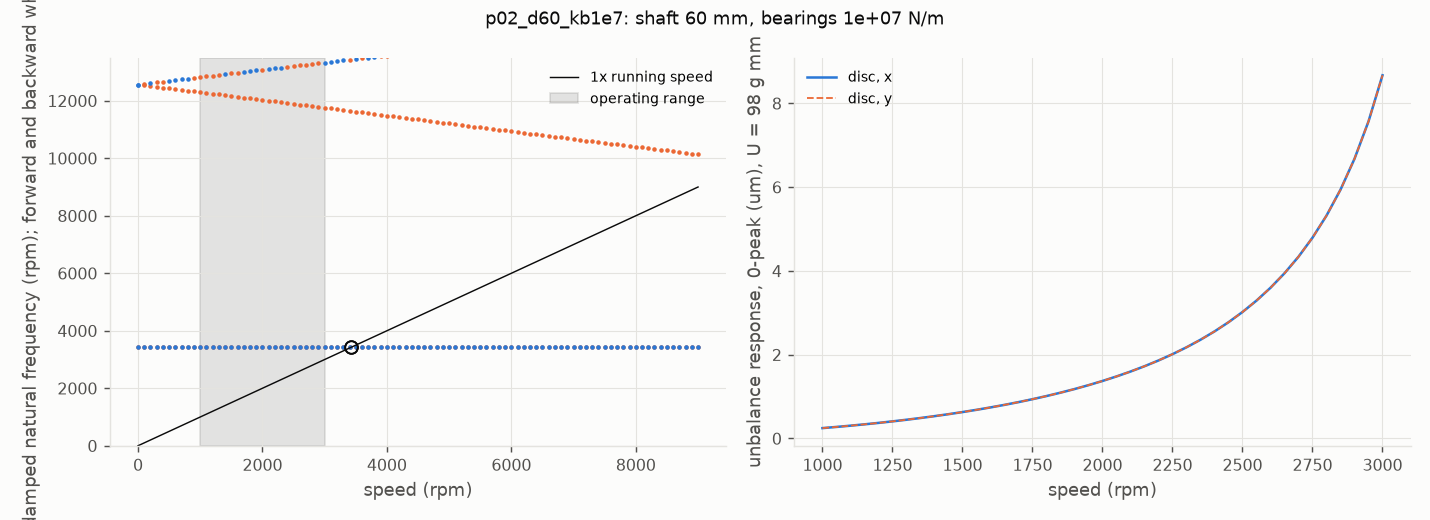
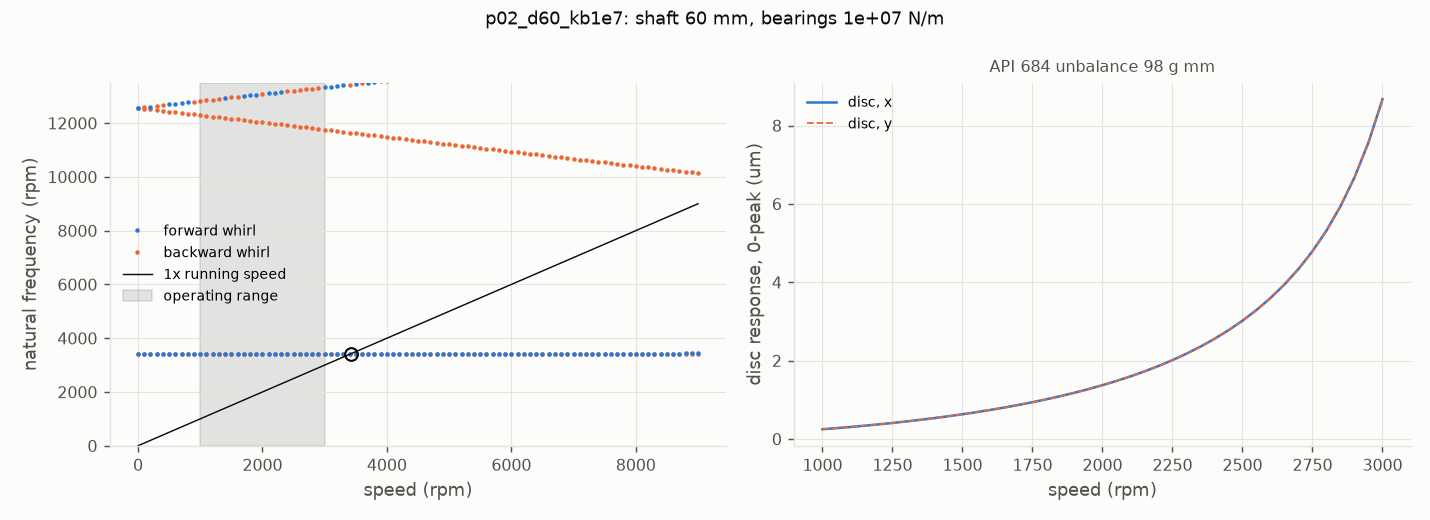
Portfolio pages 23 (fan rotor critical speeds) and 24 (cracked plate, crack growth), PORTFOLIO rows and capabilities, BACKLOG links; rotor figure labels (forward / backward whirl legend, y label no longer clipped), the design run re-verified to redraw them (same results)

diff --git a/studies/rotor_critical.py b/studies/rotor_critical.py
@@ -179,21 +179,22 @@ def rotor_figure(path, series, out, p, *, title):
     wh = np.asarray(out["campbell_whirl"])
     for j in range(wd.shape[1]):
         fwd = wh[:, j] < 0.5
-        a1.plot(sp[fwd], wd[fwd, j], ".", color=SERIES_1, ms=3)
-        a1.plot(sp[~fwd], wd[~fwd, j], ".", color=SERIES_2, ms=3)
+        a1.plot(sp[fwd], wd[fwd, j], ".", color=SERIES_1, ms=3, label="forward whirl" if j == 0 else None)
+        a1.plot(sp[~fwd], wd[~fwd, j], ".", color=SERIES_2, ms=3, label="backward whirl" if j == 0 else None)
     a1.plot(sp, sp, color=TEXT, lw=0.8, label="1x running speed")
     a1.axvspan(float(p["speed_min_rpm"]), float(p["speed_max_rpm"]), color=TEXT_2, alpha=0.15, label="operating range")
     for c in out["critical_speeds"]:
         a1.plot(c["rpm"], c["rpm"], "o", mfc="none", color=TEXT, ms=7)
     a1.set_ylim(0, sp.max() * 1.5)
     a1.set_xlabel("speed (rpm)")
-    a1.set_ylabel("damped natural frequency (rpm); forward and backward whirl")
+    a1.set_ylabel("natural frequency (rpm)")
     a1.legend(frameon=False, fontsize=8)
     s = np.asarray(series["speed_rpm"])
     a2.plot(s, np.asarray(series["disc_amp_x_m"]) * 1e6, color=SERIES_1, lw=1.4, label="disc, x")
     a2.plot(s, np.asarray(series["disc_amp_y_m"]) * 1e6, color=SERIES_2, lw=1.0, ls="--", label="disc, y")
     a2.set_xlabel("speed (rpm)")
-    a2.set_ylabel(f"unbalance response, 0-peak (um), U = {out['unbalance_g_mm']:.0f} g mm")
+    a2.set_ylabel("disc response, 0-peak (um)")
+    a2.set_title(f"API 684 unbalance {out['unbalance_g_mm']:.0f} g mm", fontsize=9, color=TEXT_2)
     a2.legend(frameon=False, fontsize=8)
     for ax in (a1, a2):
         _style(ax)

diff --git a/PORTFOLIO.md b/PORTFOLIO.md
@@ -16,8 +16,8 @@ All problems are synthetic, so no client data is involved. Every number comes fr
 | Contact: nonlinear surface-to-surface contact, contact pressure and subsurface stress, verified against Hertz; friction contact and bolted joints against VDI 2230 | Gmsh, CalculiX | [10](portfolio/10-roller-contact.md), [16](portfolio/16-bolted-joint-slip.md) |
 | Stability and nonlinear material: eigenvalue and imperfect-strut buckling, plasticity with residual stress | CalculiX | [13](portfolio/13-strut-buckling.md), [14](portfolio/14-strap-proof-plasticity.md) |
 | Pressure equipment, design by analysis: stress linearisation on classification lines, membrane and bending limits, design by analysis against a pressure-area rule | CadQuery, Gmsh, CalculiX | [18](portfolio/18-pressure-vessel-nozzle.md) |
-| Vibration: modal analysis, mode identification, frequency targets against engine orders; random vibration by modal superposition (3-sigma stress, hot-spot extrapolation) | CadQuery, Gmsh, CalculiX, Python | [4](portfolio/04-bracket-modal.md), [21](portfolio/21-bracket-random-vibration.md) |
-| Fatigue: notch factors, mean-stress correction, S-N curves from published test data, life ratings; spectral fatigue under random loading (Dirlik, Steinberg) | CalculiX, Python | [3](portfolio/03-strap-fatigue.md), [21](portfolio/21-bracket-random-vibration.md) |
+| Vibration: modal analysis, mode identification, frequency targets against engine orders; random vibration by modal superposition (3-sigma stress, hot-spot extrapolation); rotordynamics (Campbell diagram, critical speeds, API 684 unbalance response) | CadQuery, Gmsh, CalculiX, ROSS, Python | [4](portfolio/04-bracket-modal.md), [21](portfolio/21-bracket-random-vibration.md), [23](portfolio/23-fan-rotor-critical-speeds.md) |
+| Fatigue: notch factors, mean-stress correction, S-N curves from published test data, life ratings; spectral fatigue under random loading (Dirlik, Steinberg); fracture mechanics and crack growth (K by energy release and crack opening, BS 7910 growth law, critical crack, inspection interval) | Gmsh, CalculiX, Python | [3](portfolio/03-strap-fatigue.md), [21](portfolio/21-bracket-random-vibration.md), [24](portfolio/24-cracked-plate-growth.md) |
 | Scripted CAD-to-analysis pipelines: parametric geometry, STEP exchange, meshing, solving; an optimiser driving the pipeline | CadQuery, Gmsh, CalculiX, SciPy | [2](portfolio/02-strap-cable-hole.md), [4](portfolio/04-bracket-modal.md), [8](portfolio/08-mounting-plate.md), [12](portfolio/12-bracket-optimisation.md), [18](portfolio/18-pressure-vessel-nozzle.md) |
 | Computational fluid dynamics: internal laminar flow, pressure budgets, 2D and 3D; turbulent RANS (k-omega SST) validated against measured-data correlations, wall treatments compared | OpenFOAM | [5](portfolio/05-coolant-channel.md), [19](portfolio/19-turbulent-pipe-friction.md) |
 | Heat transfer: conduction with surface convection; conjugate heat transfer coupling CFD and solid conduction, then thermal stress | CalculiX, OpenFOAM | [6](portfolio/06-heat-sink-fin.md), [15](portfolio/15-cold-plate-thermal-chain.md) |
@@ -53,6 +53,8 @@ All problems are synthetic, so no client data is involved. Every number comes fr
 | [18. Pressure vessel nozzle, design by analysis](portfolio/18-pressure-vessel-nozzle.md) | Can a 200 mm nozzle with a 12 mm wall go into a 16 mm shell at 3.5 MPa without a reinforcing pad, and how thin can the head be? | It depends on the classification line: at the weld-fillet toes it passes by 0.9 % (205.1 MPa against 207; about 11.7 mm needed), through the crotch it fails by 24 % (256.7 MPa; about 20 mm needed); a simplified pressure-area rule asks for about 16. Recommended for review: judge the opening by the crotch line (about 21 mm, or a pad). The hemispherical head can be about 6.5 mm (its membrane governs, not the junction). |
 | [21. Bracket arm under random vibration](portfolio/21-bracket-random-vibration.md) | Does study 4's steel arm survive a random-vibration qualification, one hour per axis at 0.04 g²/Hz (20-2000 Hz)? | Yes, with wide margins: 3-sigma root stress 38.6 MPa against 236.7, fatigue damage 0.0024 against 0.5, tip 0.345 mm against a 1 mm clearance (the closest margin). |
 | [22. Bracket arm under random vibration: how robust is the PASS?](portfolio/22-bracket-random-uncertainty.md) | With damping, test level, fatigue strength and thickness uncertain, how likely is study 21's arm to fail, and what should be measured first? | Failure probability about 2e-6 against a 1e-3 limit; the tip clearance governs (reliability index 4.55); damping drives 71 % of the damage variance: measure it first. Synthetic distributions. |
+| [23. Fan rotor: critical speeds and unbalance response](portfolio/23-fan-rotor-critical-speeds.md) | Does a fan rotor running 1000-3000 rpm keep its critical speeds 15 % clear of the range for any bearing stiffness, and which shaft diameter does? | 50 mm fails (critical inside the range); 60 mm fails on soft bearings; 65 mm passes with at least 23.8 % margin and under 5 µm response. |
+| [24. Cracked steel plate: critical crack and fatigue crack growth](portfolio/24-cracked-plate-growth.md) | How long does a 2 mm edge crack in a 100 mm S355 plate take to grow to failure under 150 MPa cyclic tension, and how often must it be inspected? | Critical crack 37.0 mm; about 92,000 cycles from 2 mm, so inspect at least every 46,000 cycles. K within 0.66 % of the handbook. |
 
 ### Thermal and fluids
 

diff --git a/portfolio/24-cracked-plate-growth.md b/portfolio/24-cracked-plate-growth.md
@@ -1,0 +1,78 @@
+# Cracked steel plate: critical crack and fatigue crack growth
+
+[Portfolio index](../PORTFOLIO.md) · Structures and vibration
+
+| | |
+|---|---|
+| **Answer** | A 2 mm edge crack (the smallest magnetic-particle inspection reliably finds) in the 100 mm S355 plate grows to the critical size, **37.0 mm**, in about **92,000 cycles** at 150 MPa maximum stress (R = 0.1). Inspect at least every **46,000 cycles**; the planned 40,000 has margin. At the detectable crack, K is 13.4 MPa√m against the 50 allowed. Loads, toughness and the detectable size are synthetic; the crack growth law is the published BS 7910 / IIW one. |
+| **Discipline** | Fracture mechanics, damage tolerance |
+| **Tools** | Gmsh, CalculiX, Python (SciPy) |
+| **Methods** | Linear elastic fracture mechanics, stress intensity by energy release rate and by crack opening, Paris-law crack growth (BS 7910 simplified law for steels in air), handbook K (Tada), mesh noise measurement |
+
+![K against crack length, and the FE against Tada's handbook solution](../runs/20261123-164649_edge_crack_mesh_r2/points/p02_tip_element_size_mm-0.025/response.png)
+
+## The question
+
+A steel plate (S355, 100 mm wide, 10 mm thick) carries cyclic tension, 150 MPa at peak, 15 MPa at the bottom of each
+cycle. Inspections can find an edge crack once it is 2 mm deep. How long does such a crack take to grow to failure,
+and how often must the plate be inspected? Requirements: at the detectable crack, the stress intensity stays below
+half the fracture toughness (100 MPa√m, synthetic: a client would supply CTOD or Charpy data); and the growth life is
+at least twice the planned inspection interval of 40,000 cycles.
+
+## The answer
+
+- **Critical crack 37.0 mm**, set by the toughness; the ligament would yield only at 57.7 mm.
+- **Life from 2 mm to 37.0 mm: about 92,000 cycles**, so an inspection interval of at most 46,000 cycles. 81 % of
+  that life is spent growing from 2 to 10 mm: the early crack is slow, which is what gives inspection its chance.
+- **K at the 2 mm crack: 13.4 MPa√m**, a quarter of the toughness.
+
+## How it works
+
+CalculiX solves half the plate (the crack plane is a plane of symmetry) in plane strain, meshed by Gmsh with
+quadratic triangles that shrink towards the crack tip. At each of eleven crack lengths from 2 to 45 mm the stress
+intensity K comes two ways, neither needing special crack-tip elements:
+
+- **Energy release rate:** the strain energy at the crack length and 0.2 mm either side; G = dU/da, K = √(E′G).
+- **Crack opening:** near the tip the crack faces open as √r, in proportion to K; fitting the opening along the face
+  and extrapolating to the tip gives K.
+
+K(a) then gives the critical crack (where K reaches the toughness) and, integrated through the BS 7910 crack growth
+law (da/dN = 5.21×10⁻¹³ ΔK³), the life.
+
+## How I know it's right
+
+- **Tada's handbook solution** for an edge crack in a finite strip: the energy route agrees within 0.66 % at every
+  crack length, against Tada's own stated accuracy of 0.5 %. The wave in the difference against crack length (right
+  plot) is the same on every mesh, so it is the handbook's polynomial fit, not the model.
+- **Two routes to K** agree within 1.9-2.2 %; the crack-opening route is the weaker one (few points to fit at small
+  cracks) and converges towards the energy route as the tip mesh refines.
+- **Equilibrium** to 1e-16; the life integral by two quadratures to 3e-9.
+- **Tip mesh study** (0.1, 0.05, 0.025 mm): the critical crack converges (GCI 2e-4).
+- **Measured mesh noise:** five meshes at one tip size, perturbed in the far field, scatter the life by 0.11 %.
+
+## What the checks caught
+
+- **The life would not converge cleanly, and fixing it took three revisions.** The first energy step (2 % of the crack
+  length) was 0.04 mm at a 2 mm crack, about one tip element, so the energy difference picked up the mesh's own noise.
+  A 10 % step cured that but added 1.2 % of truncation error at long cracks, where K rises steeply. A fixed 0.2 mm
+  step, a few tip elements long and small against long cracks, satisfies both.
+- **I had declared a noise floor I had not measured.** The first case's floor (1e-4) was a guess written beside a
+  measured-sounding source. Measured afterwards, the life's scatter is 1.1e-3, and the finest tip still sits 0.05 %
+  below that band. So the life is known to about ±0.2 %, but the harness's mesh check stays formally unverified for it.
+  Against a 15 % margin to the requirement, no further revision can change the answer, so I stopped there.
+
+## Limits
+
+- Through-thickness straight crack; a real crack usually starts as a semi-ellipse at a surface (BS 7910 gives its K).
+- Constant-amplitude loading; no crack closure, sequence effects or environment.
+- Linear elastic: valid while the plastic zone (up to about 4 mm near the critical crack) is small against the
+  ligament.
+
+## Evidence
+
+- [tip mesh study, revision 2](../runs/20261123-164649_edge_crack_mesh_r2/report.md),
+  [noise measurement](../runs/20261123-165115_edge_crack_noise/report.md); revisions 0 and 1 in `runs/` with their
+  reasons in the case files
+- case files: `cases/edge_crack_mesh.toml`, `cases/edge_crack_mesh_r1.toml`, `cases/edge_crack_mesh_r2.toml`,
+  `cases/edge_crack_noise.toml`
+- code: `models/fea/edge_crack.py`, `studies/edge_crack.py`; tests `tests/test_edge_crack.py`

diff --git a/portfolio/23-fan-rotor-critical-speeds.md b/portfolio/23-fan-rotor-critical-speeds.md
@@ -1,0 +1,73 @@
+# Fan rotor: critical speeds and unbalance response
+
+[Portfolio index](../PORTFOLIO.md) · Structures and vibration
+
+| | |
+|---|---|
+| **Answer** | The 50 mm shaft does not work: its first critical speed (2710-2911 rpm) sits inside the 1000-3000 rpm operating range, and the impeller swings 335-345 µm through it. A 60 mm shaft clears the range only on stiff bearings (14.3 % margin against 15 % on soft ones). **Use 65 mm**: at least 23.8 % margin over the whole bearing-stiffness band, response under 5 µm. Geometry, speed range, bearing band and damping are synthetic. |
+| **Discipline** | Rotordynamics |
+| **Tools** | ROSS 3.1 (open-source rotordynamics, Python) |
+| **Methods** | Timoshenko rotor finite elements with gyroscopic terms, Campbell diagram, critical speeds as 1× crossings, API 684 unbalance response, Jeffcott and Euler-Bernoulli closed forms |
+
+![Campbell diagram and unbalance response, 65 mm shaft on soft bearings](../runs/20261123-162721_rotor_fan_design/points/p04_d65_kb1e7/response.png)
+
+## The question
+
+A fan's impeller (400 mm steel disc, 25 mm thick) sits mid-span on a steel shaft between two rolling bearings 1 m
+apart. It runs at 1000-3000 rpm on a variable-speed drive. A rotor that runs near a critical speed vibrates hard, so
+the requirement, simplified from API 684, is that every forward critical speed sits at least 15 % outside the
+operating range: none between 850 and 3450 rpm. The bearing pedestals' stiffness is not known well, so it is a band,
+1e7 to 1e8 N/m, and the requirement must hold across it. A second requirement limits the impeller's response to the
+standard API unbalance to 50 µm. The drawing's shaft is 50 mm; is it enough, and if not, what is?
+
+## The answer
+
+| Shaft | Bearings (N/m) | First forward critical | Margin (at least 15 %) | Response (at most 50 µm) |
+|---|---|---|---|---|
+| 50 mm | 1e7 / 1e8 | 2710 / 2911 rpm | -9.7 / -3.0 % **FAIL** | 335 / 345 µm **FAIL** |
+| 60 mm | 1e7 / 1e8 | 3429 / 3957 rpm | **14.3 % FAIL** / 31.9 % | 8.7 / 3.8 µm |
+| 65 mm | 1e7 / 1e8 | 3714 / 4494 rpm | 23.8 / 49.8 % | 5.0 / 2.3 µm |
+
+The soft-bearing end of the band governs: a softer support lowers every critical speed. The 60 mm shaft would pass
+on stiff pedestals and fail on soft ones, which is exactly the uncertainty the band was meant to cover.
+
+## How it works
+
+ROSS builds the rotor from 20 Timoshenko beam elements (shear deformation, rotary inertia, gyroscopic coupling), a
+rigid disc and two linear bearings. Its Campbell diagram tracks each mode's frequency against running speed, split
+into forward and backward whirl. A critical speed is where a forward-whirl mode crosses the 1× running-speed line. The
+unbalance response applies API 684's standard unbalance (6350 W / N g·mm, here 84-106 g·mm) at the disc.
+
+## How I know it's right
+
+- **Jeffcott rotor** (massless shaft, rigid supports, central disc) against sqrt(48 EI / m L³): within 0.27-0.46 %,
+  the difference being shear deformation and the disc's width.
+- **The same rotor on the case's bearings** against the closed form with shaft and bearings as springs in series:
+  within 0.24-0.44 %.
+- **The bare shaft** on rigid supports against Euler-Bernoulli pinned-pinned: within 0.30-0.50 %.
+- **The Campbell crossings** against ROSS's own critical-speed search: agree to 6e-6 or better.
+- **Element convergence:** 10, 20 and 40 elements give the same critical speed and response (GCI 2e-7).
+
+## What the checks caught
+
+- **ROSS's own critical-speed search failed to converge** over the full 0-9000 rpm range (its Newton iteration). The
+  study takes the critical speeds from the Campbell diagram's 1× crossings instead and keeps ROSS's search, over its
+  default range, as a cross-check.
+- **My hand estimate ran 2 % high on soft bearings.** Rayleigh's method, with 17/35 of the shaft's mass at mid-span,
+  matched within 0.2 % on stiff bearings, but that factor assumes a simply supported mode shape; on soft bearings the
+  whole shaft also translates, so more of its mass takes part. That 2 % put the 60 mm shaft just under the limit,
+  outside the band I had predicted for it.
+
+## Limits
+
+- Linear bearings: a rolling bearing's stiffness rises with load and speed; the band is meant to cover that.
+- No aerodynamic cross-coupling, foundation mass or seal forces; the blades are lumped into the disc.
+- API 684's separation margin depends on each mode's amplification factor; a fixed 15 % is a simplification.
+
+## Evidence
+
+- [design run](../runs/20261123-162721_rotor_fan_design/report.md) (verification PASS),
+  [element convergence](../runs/20261123-163104_rotor_fan_mesh/report.md) (PASS)
+- case files: `cases/rotor_fan_design.toml`, `cases/rotor_fan_mesh.toml` (hand estimate, predictions, results)
+- code: `models/rotor/fan_rotor.py` (runs in its own ROSS environment), `studies/rotor_critical.py`;
+  tests `tests/test_rotor_critical.py`

diff --git a/BACKLOG.md b/BACKLOG.md
@@ -16,8 +16,8 @@ Planned studies, not started. Each one follows the usual loop (frame requirement
 | 10 | Random vibration of the study-4 bracket (C) | Forced response to a PSD; 3-sigma stress; vibration fatigue | Miles' equation; effective mass | CalculiX · Python | Medium | **Verified** (run 20261123-100907_bracket_random_mesh, 3.1 / 1.95 / 1.22 mm): PASS on all three: 3-sigma root stress 38.6 MPa (limit 236.7, GCI 1.3 %), damage 2.4e-3 (limit 0.5), tip 0.345 mm (limit 1.0, GCI 0.1 %); harmonic check 1e-6 after finding CalculiX's absolute-damping base motion; a 16.5 GB .frd from carried-over output requests, fixed; [portfolio/21](portfolio/21-bracket-random-vibration.md) |
 | 11 | Natural convection and radiation (D) | Buoyant flow; view-factor radiation | de Vahl Davis cavity benchmark; two-surface exchange | OpenFOAM · CalculiX | Medium | Documented, not started |
 | 12 | O-ring compression (E) | Hyperelastic large strain with self-contact | Published force-squeeze correlation; J about 1 | CalculiX | High | Documented, not started |
-| 13 | Cracked plate, K and crack growth (F) | Fracture mechanics; damage tolerance | Handbook K solutions; G-K consistency | CalculiX · Python | Medium | **Done** (runs edge_crack_mesh r0-r2 and edge_crack_noise, 2026-11-23): K within 0.66 % of Tada, critical crack 37.0 mm (verified), life about 92,000 cycles from 2 mm (+-0.2 %, formally unverified: mesh noise), inspection interval about 46,000 cycles; REQ-F1, F2 PASS; portfolio page to write |
-| 14 | Rotor critical speeds (G) | Rotordynamics, Campbell diagram | Jeffcott rotor closed form | ROSS (Python) | Low-medium | **Verified** (runs 20261123-162721 and -163104): 50 mm shaft FAILS (critical in range), 60 mm FAILS on soft bearings (14.3 %), 65 mm PASSES (margin 23.8 % or more, under 5 um); portfolio page to write |
+| 13 | Cracked plate, K and crack growth (F) | Fracture mechanics; damage tolerance | Handbook K solutions; G-K consistency | CalculiX · Python | Medium | **Done** (runs edge_crack_mesh r0-r2 and edge_crack_noise, 2026-11-23): K within 0.66 % of Tada, critical crack 37.0 mm (verified), life about 92,000 cycles from 2 mm (+-0.2 %, formally unverified: mesh noise), inspection interval about 46,000 cycles; REQ-F1, F2 PASS; [portfolio/24](portfolio/24-cracked-plate-growth.md) |
+| 14 | Rotor critical speeds (G) | Rotordynamics, Campbell diagram | Jeffcott rotor closed form | ROSS (Python) | Low-medium | **Verified** (runs 20261123-162721 and -163104): 50 mm shaft FAILS (critical in range), 60 mm FAILS on soft bearings (14.3 %), 65 mm PASSES (margin 23.8 % or more, under 5 um); [portfolio/23](portfolio/23-fan-rotor-critical-speeds.md) |
 | 15 | Probabilistic uncertainty on an existing study (H) | Sobol indices, failure probability | Monte Carlo convergence; analytic linear case | Python | Low-medium | **Verified** (run 20261123-104847_bracket_random_uq, on study C): pf_any 2.2e-6 against 1e-3, tip governs (beta 4.55), damping 71 % of the damage variance; [portfolio/22](portfolio/22-bracket-random-uncertainty.md) |
 
 Notes
